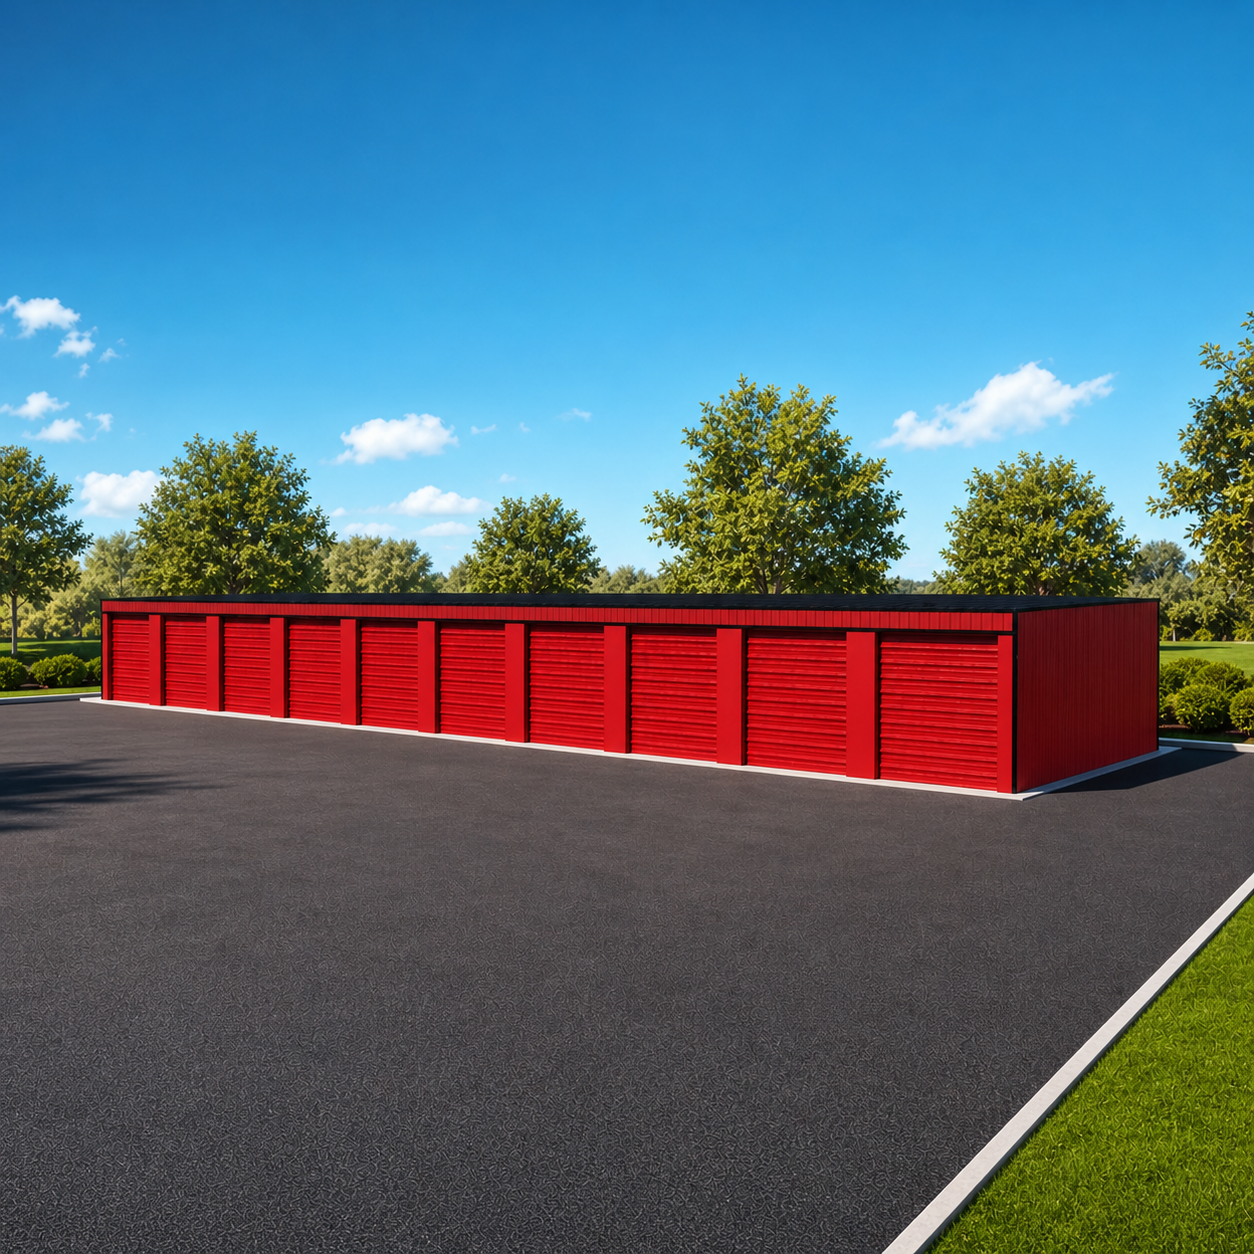
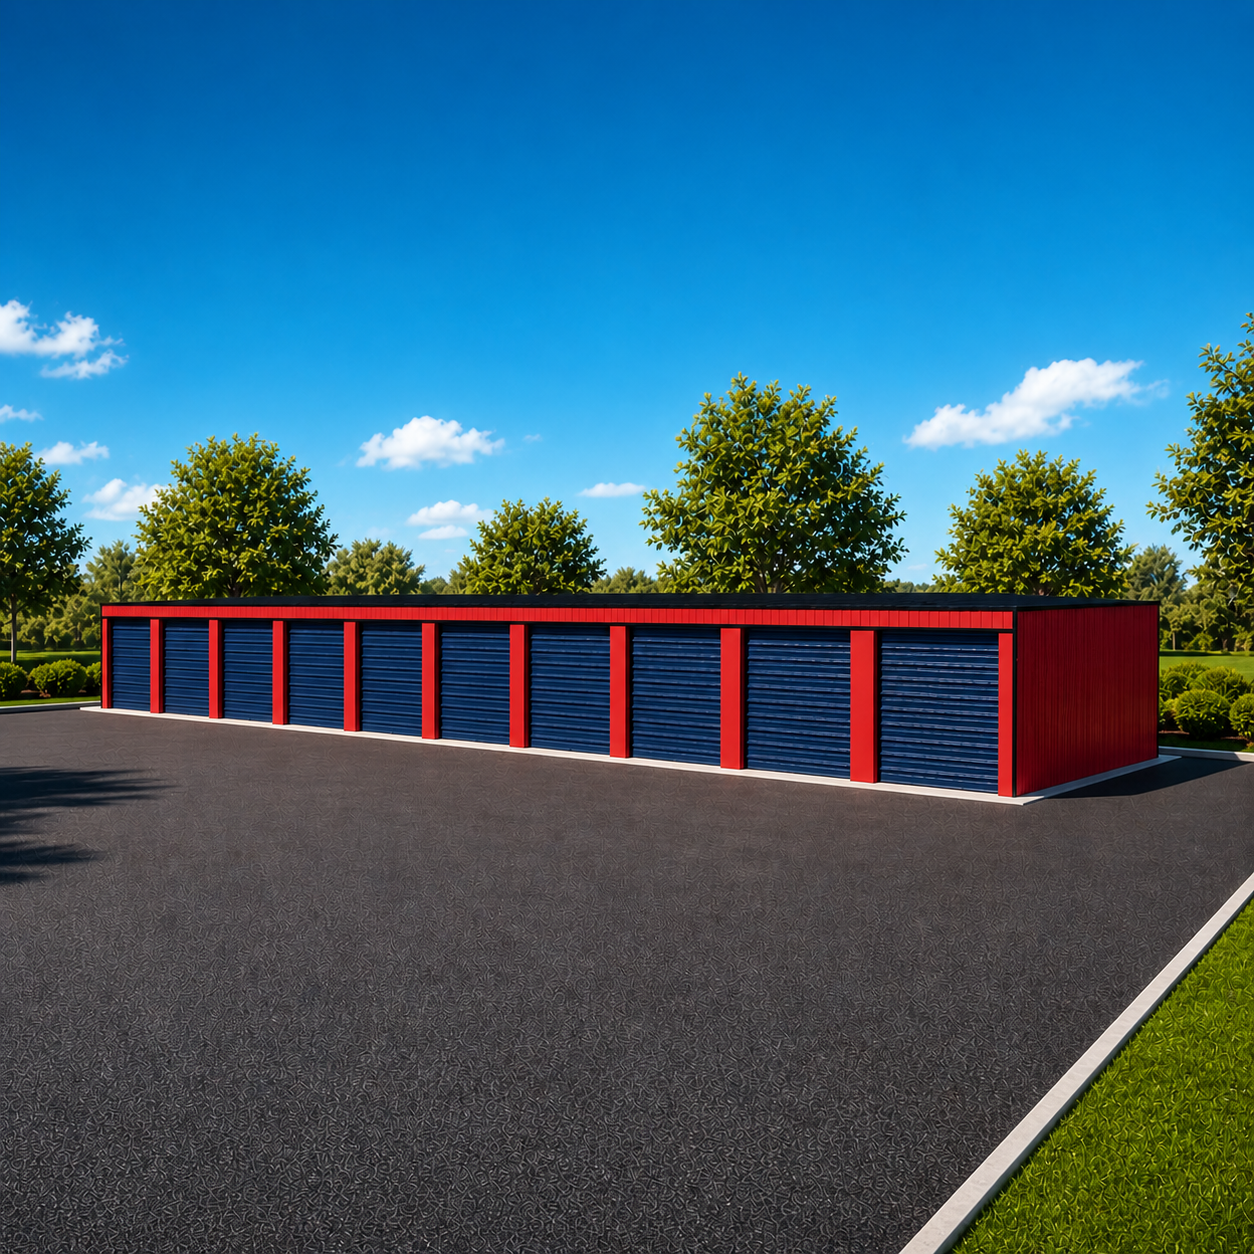
Swap RV Starter render to red-trim/navy-door variant

diff --git a/src/app/specials/50x150-rv-storage/page.tsx b/src/app/specials/50x150-rv-storage/page.tsx
@@ -39,7 +39,7 @@ export default function Special50x150RVPage() {
       subtitle="Room for everything that matters. 10 oversized 15×50 bays with 12×14 Janus Model 1000 doors. Built for Class A motorhomes, fifth wheels, and large trailers."
       heroImage={{
         src: "/specials/50x150-rv-storage-render.png",
-        alt: "Rendering of the 50' × 150' × 16' RV Starter storage building with red roll-up doors",
+        alt: "Rendering of the 50' × 150' × 16' RV Starter storage building with red trim and navy roll-up doors",
       }}
     >
       <section className="py-16 lg:py-24 bg-white">